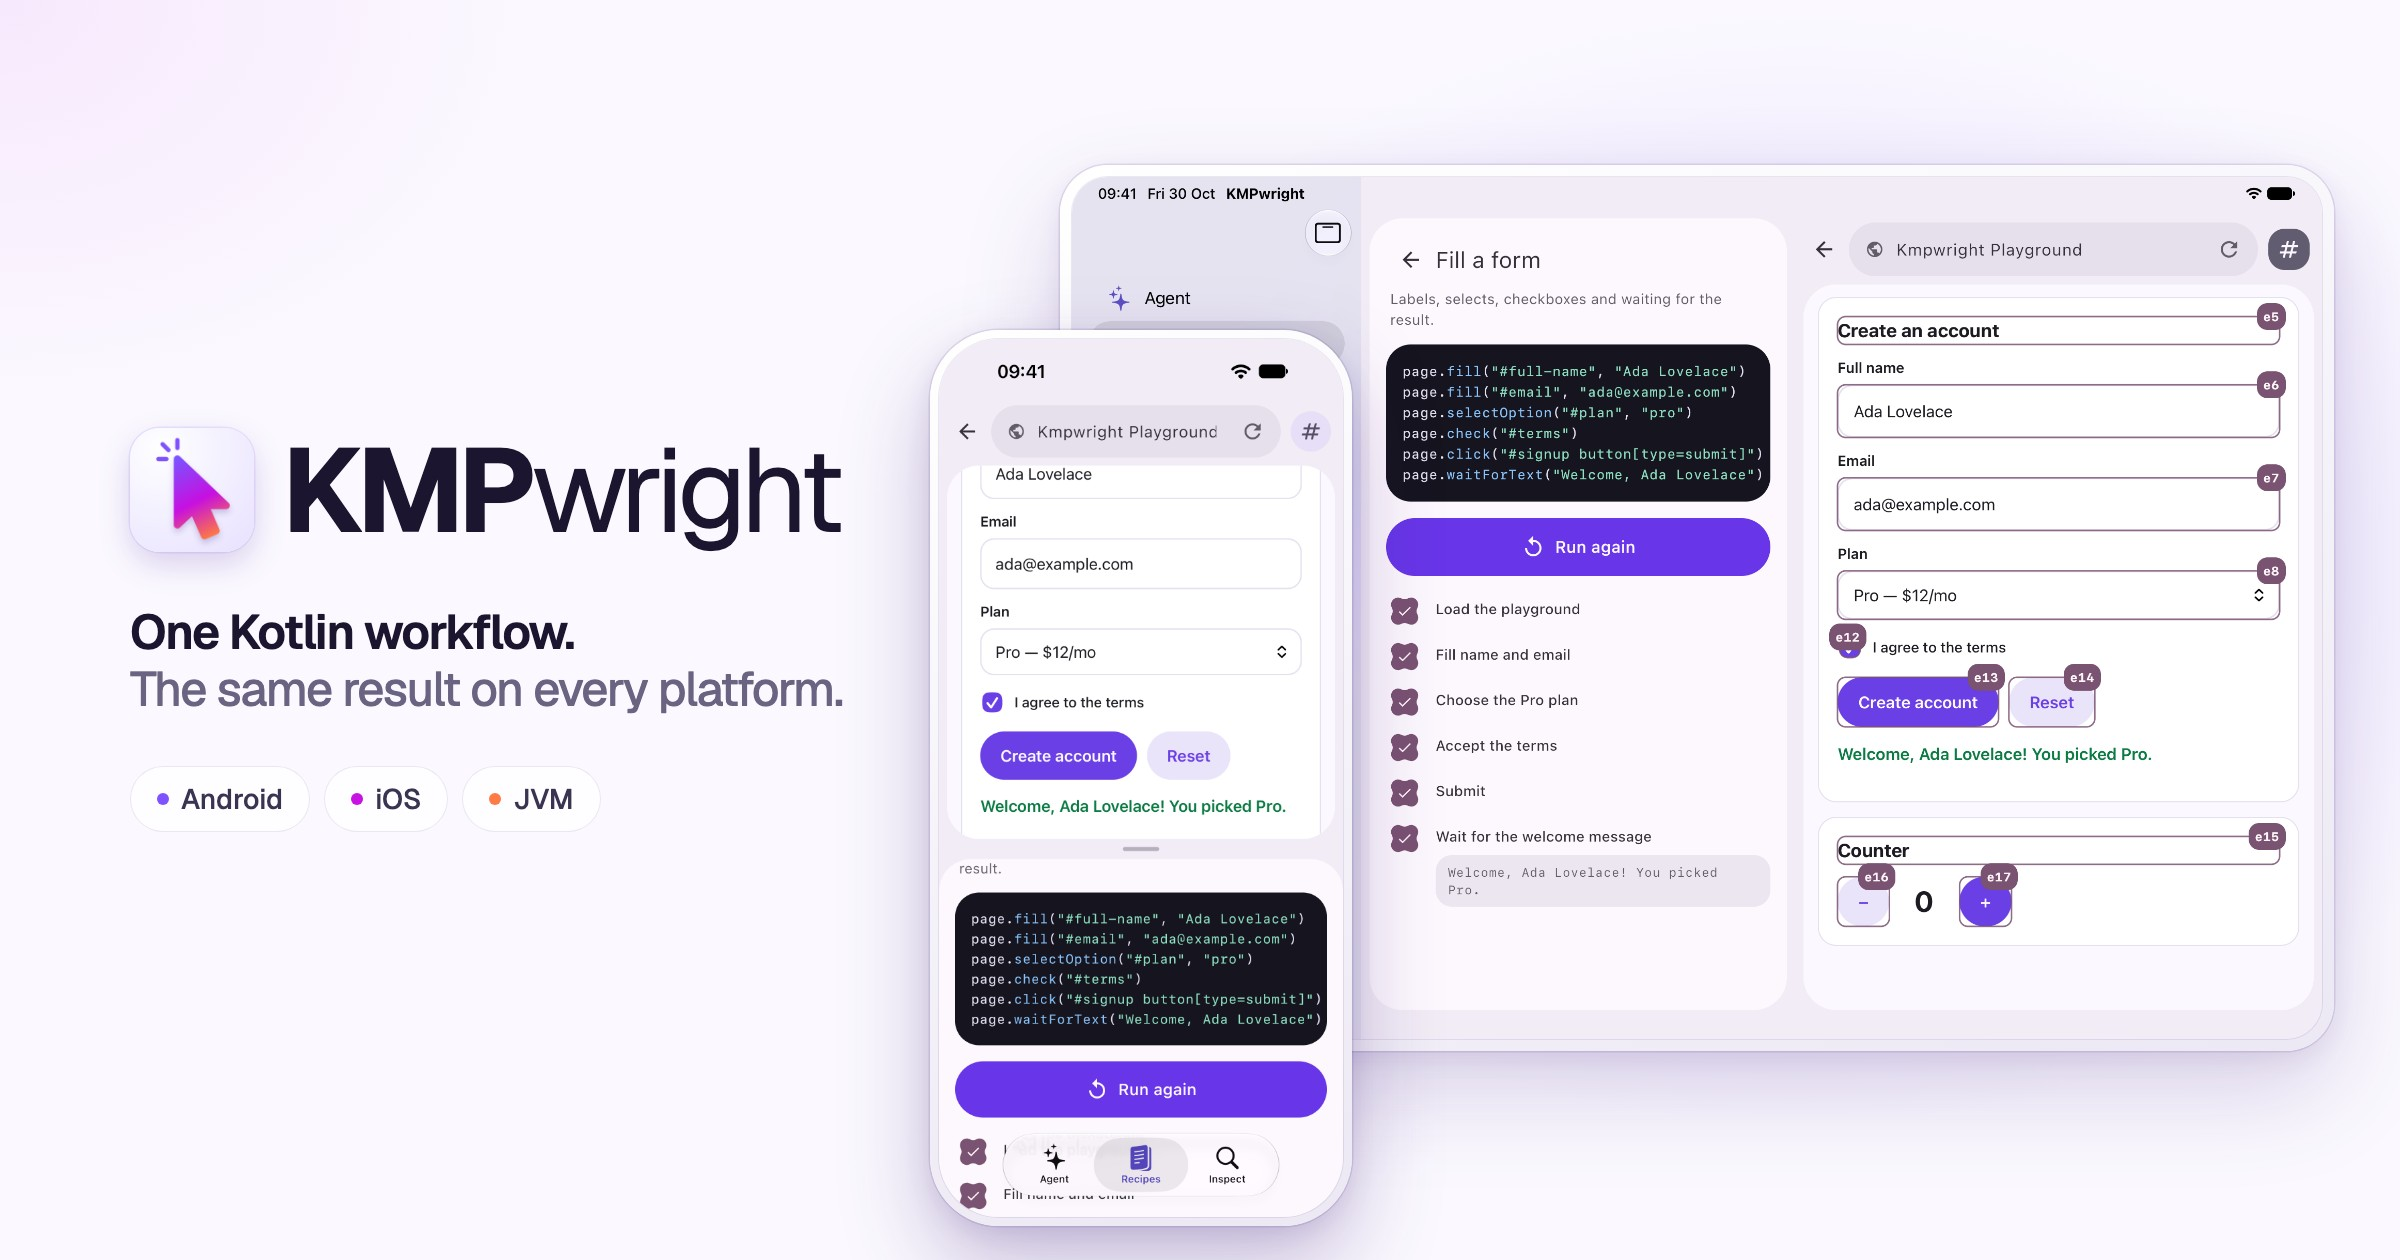
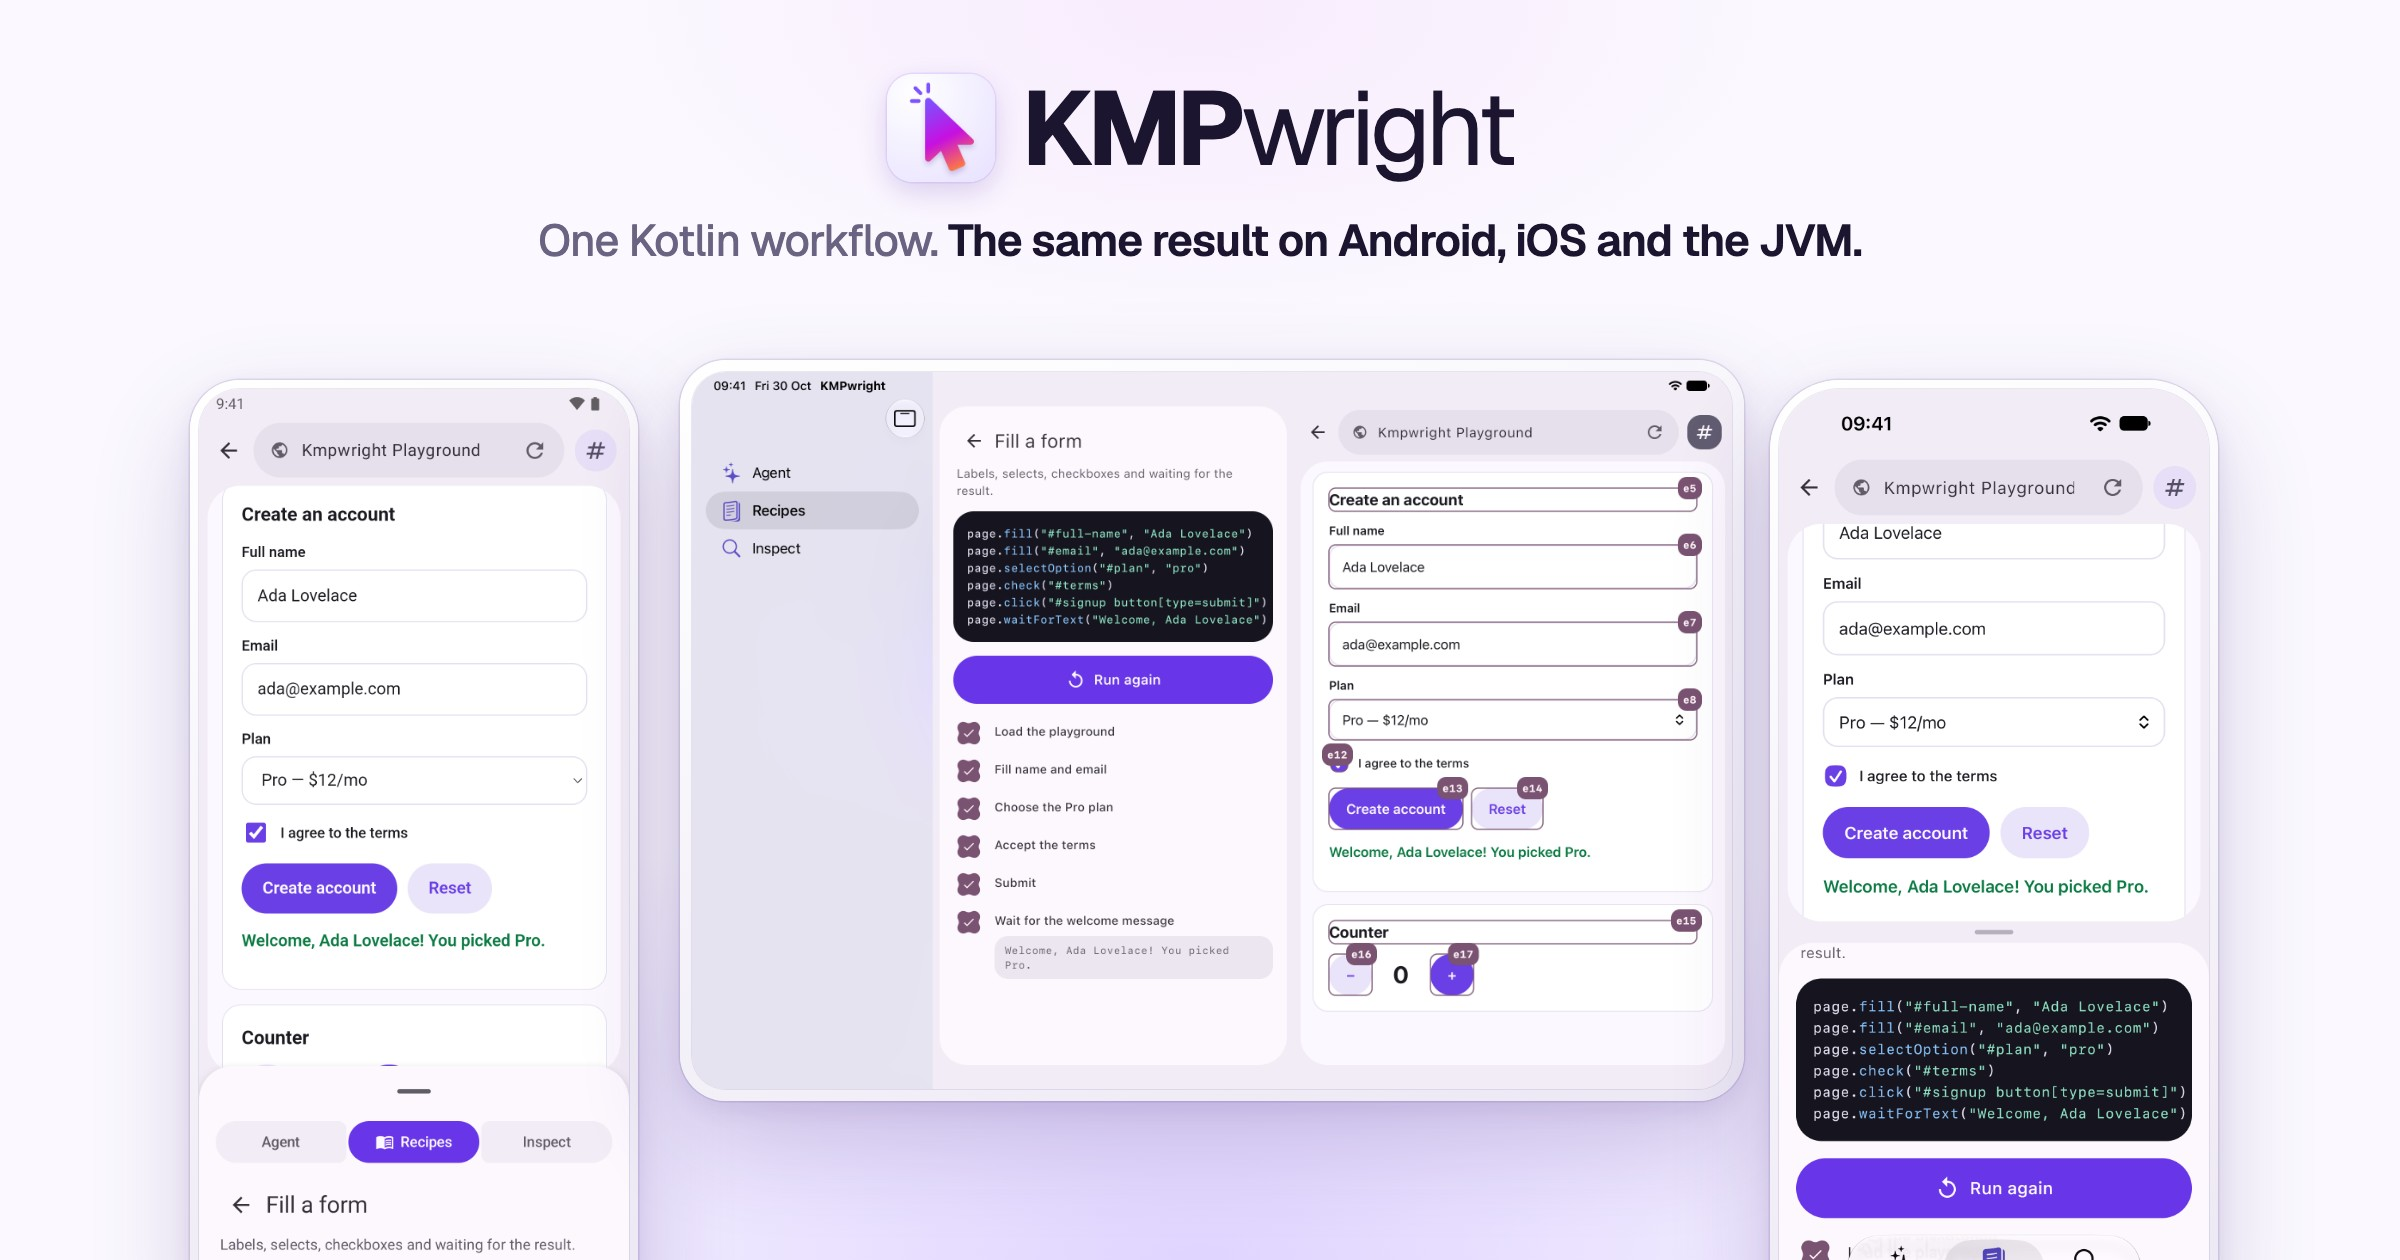
Header: Galaxy S25, iPad and iPhone in a row, all finishing the same recipe

diff --git a/docs/assets/readme/src/header.html b/docs/assets/readme/src/header.html
@@ -9,52 +9,43 @@
   body {
     font-family: "Geist", system-ui, sans-serif; color: #1b1530; position: relative;
     background:
-      radial-gradient(1100px 800px at 75% 45%, rgba(127, 82, 255, 0.20), transparent 70%),
-      radial-gradient(800px 600px at 0% 0%, rgba(200, 17, 226, 0.07), transparent 70%),
+      radial-gradient(1400px 700px at 50% 100%, rgba(127, 82, 255, 0.22), transparent 70%),
+      radial-gradient(900px 500px at 50% 0%, rgba(200, 17, 226, 0.06), transparent 70%),
       #fbf9ff;
   }
 
-  .copy { position: absolute; left: 130px; top: 0; bottom: 0; width: 800px; display: flex; flex-direction: column; justify-content: center; }
-  .brand { display: flex; align-items: center; gap: 28px; }
-  .brand img { width: 124px; height: 124px; border-radius: 30px; box-shadow: 0 12px 32px rgba(80, 40, 160, 0.20), 0 0 0 1.5px rgba(127, 82, 255, 0.12); }
-  .word { font-size: 118px; line-height: 1; letter-spacing: -0.045em; }
+  .top { position: absolute; top: 74px; left: 0; right: 0; display: flex; flex-direction: column; align-items: center; }
+  .brand { display: flex; align-items: center; gap: 26px; }
+  .brand img { width: 108px; height: 108px; border-radius: 26px; box-shadow: 0 10px 28px rgba(80, 40, 160, 0.18), 0 0 0 1.5px rgba(127, 82, 255, 0.12); }
+  .word { font-size: 104px; line-height: 1; letter-spacing: -0.045em; }
   .word b { font-weight: 700; }
   .word span { font-weight: 380; }
-  .tag { margin-top: 52px; font-size: 48px; line-height: 1.18; font-weight: 600; letter-spacing: -0.03em; }
-  .tag span { color: #6b6382; font-weight: 450; }
-  .chips { margin-top: 48px; display: flex; gap: 14px; }
-  .chip {
-    display: flex; align-items: center; gap: 12px; padding: 14px 26px; border-radius: 999px;
-    background: rgba(255,255,255,0.75); border: 1.5px solid rgba(60, 30, 120, 0.10);
-    font-size: 28px; font-weight: 500; color: #3b3352;
-  }
-  .chip i { width: 12px; height: 12px; border-radius: 50%; display: block; }
+  .tag { margin-top: 30px; font-size: 44px; font-weight: 450; letter-spacing: -0.02em; color: #6b6382; }
+  .tag b { font-weight: 600; color: #1b1530; }
 
-  /* Frames are sized from each screen's real ratio: iPad Pro 11" 2420 x 1668, iPhone 18 Pro 1206 x 2622. */
+  /* Frames follow each screen's real ratio: Galaxy S25 1080 x 2340, iPad Pro 11" 2420 x 1668, iPhone 18 Pro 1206 x 2622. */
   .device {
     position: absolute; background: linear-gradient(160deg, #ffffff, #ece8f4);
-    box-shadow: 0 0 0 1.5px rgba(60, 30, 120, 0.12), 0 40px 100px rgba(60, 30, 120, 0.18), 0 8px 24px rgba(60, 30, 120, 0.08);
+    box-shadow: 0 0 0 1.5px rgba(60, 30, 120, 0.12), 0 40px 100px rgba(60, 30, 120, 0.20), 0 8px 24px rgba(60, 30, 120, 0.08);
   }
-  .device img { display: block; width: 100%; height: 100%; box-shadow: 0 0 0 1px rgba(60, 30, 120, 0.10); }
-  .ipad { left: 1060px; top: 165px; padding: 12px; border-radius: 48px; }
-  .ipad img { width: 1250px; height: 862px; border-radius: 36px; }
-  .iphone { left: 930px; top: 330px; padding: 9px; border-radius: 69px; box-shadow: 0 0 0 1.5px rgba(60, 30, 120, 0.12), 0 40px 90px rgba(60, 30, 120, 0.28), 0 8px 24px rgba(60, 30, 120, 0.10); }
-  .iphone img { width: 404px; height: 878px; border-radius: 60px; }
+  .device img { display: block; box-shadow: 0 0 0 1px rgba(60, 30, 120, 0.10); }
+  .android { left: 190px; top: 380px; padding: 9px; border-radius: 50px; }
+  .android img { width: 430px; height: 932px; border-radius: 41px; }
+  .ipad { left: 680px; top: 360px; padding: 12px; border-radius: 46px; }
+  .ipad img { width: 1040px; height: 717px; border-radius: 34px; }
+  .iphone { left: 1770px; top: 380px; padding: 9px; border-radius: 70px; }
+  .iphone img { width: 430px; height: 935px; border-radius: 61px; }
 </style>
 <body>
-  <div class="copy">
+  <div class="top">
     <div class="brand">
       <img src="../../../brand/icon.png" alt="">
       <div class="word"><b>KMP</b><span>wright</span></div>
     </div>
-    <div class="tag">One Kotlin workflow.<br><span>The same result on every platform.</span></div>
-    <div class="chips">
-      <div class="chip"><i style="background:#7F52FF"></i>Android</div>
-      <div class="chip"><i style="background:#C811E2"></i>iOS</div>
-      <div class="chip"><i style="background:#FF7A45"></i>JVM</div>
-    </div>
+    <div class="tag">One Kotlin workflow. <b>The same result on Android, iOS and the JVM.</b></div>
   </div>
 
+  <div class="device android"><img src="android.png" alt=""></div>
   <div class="device ipad"><img src="ipad.png" alt=""></div>
   <div class="device iphone"><img src="ios.png" alt=""></div>
 </body>

diff --git a/README.md b/README.md
@@ -1,5 +1,5 @@
 <h1 align="center">
-  <a href="https://kmpwright.vercel.app"><img src="docs/assets/readme/header.jpg" width="100%" alt="KMPwright: one Kotlin workflow, the same finished sign-up form on an iPad and an iPhone"></a>
+  <a href="https://kmpwright.vercel.app"><img src="docs/assets/readme/header.jpg" width="100%" alt="KMPwright: one Kotlin workflow, the same finished sign-up form on an Android phone, an iPad and an iPhone"></a>
 </h1>
 
 <p align="center"><b>Browser automation for Kotlin Multiplatform.</b><br>
